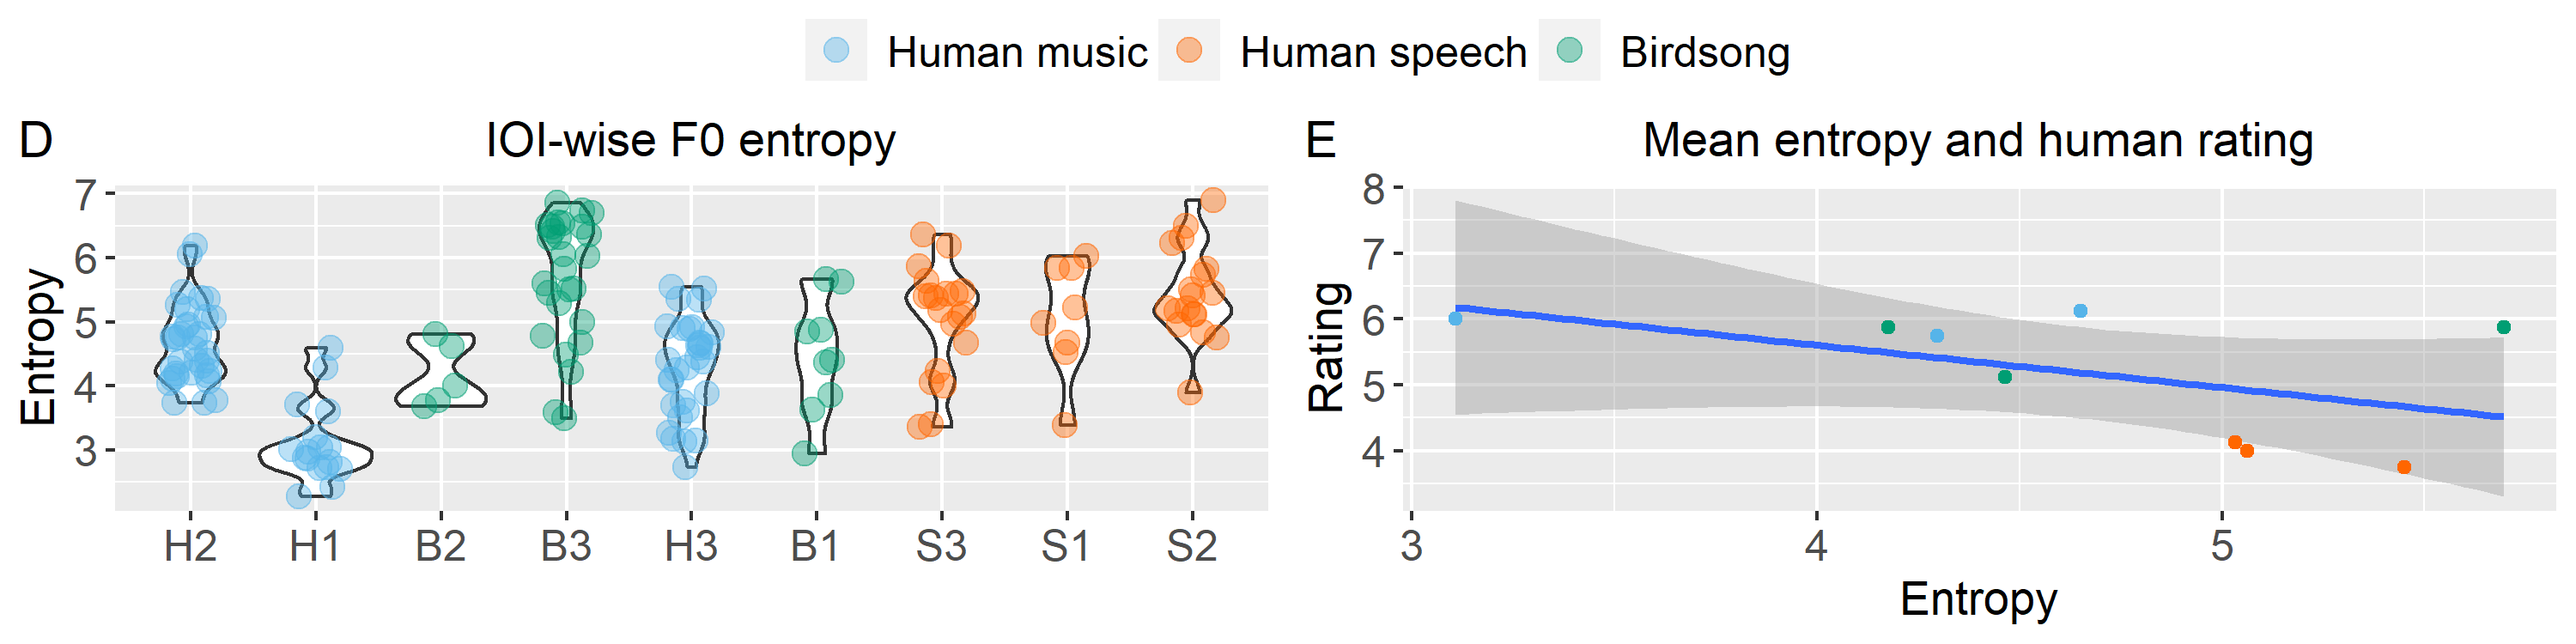
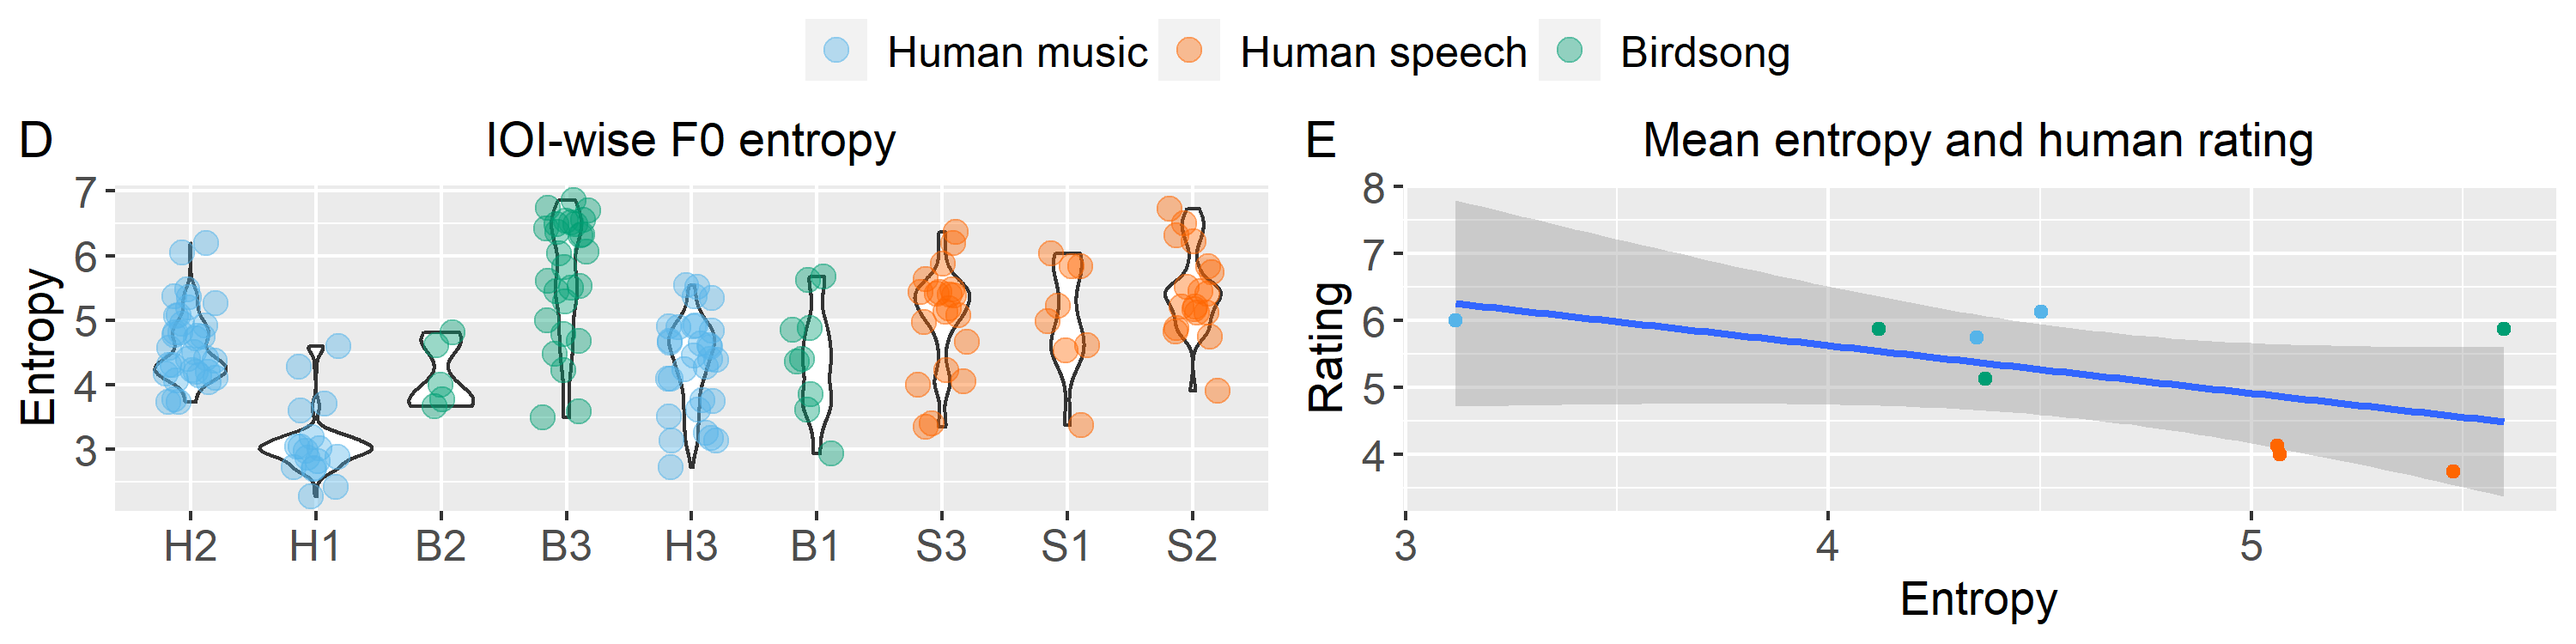
Add existing file

diff --git a/analysis_pitchdiscreteness.m b/analysis_pitchdiscreteness.m
@@ -37,16 +37,17 @@ function analysis_pitchdiscreteness
         
         %%
         onsetinfo = readtable(strcat('./data/seg_', dataname{i}, '.csv'));
-        t_onset = onsetinfo.onset_t;
-        t_onset(end + 1) = t_f0(end);
-        
+        breakinfo = readtable(strcat('./data/break_', dataname{i}, '.csv'));
+        [~, t_st, t_ed] = h_ioi(onsetinfo.onset_t, breakinfo.break_t);
+
         %%
         H = [];
+        L = [];
         f0_cent = f0_cent(:)';
 
-        for j=2:numel(t_onset)
-            [~, idx_st] = min(abs(t_f0 - t_onset(j - 1)));
-            [~, idx_ed] = min(abs(t_f0 - t_onset(j)));
+        for j=1:numel(t_st)
+            [~, idx_st] = min(abs(t_f0 - t_st(j)));
+            [~, idx_ed] = min(abs(t_f0 - t_ed(j)));
 
             f0_cent_j = f0_cent(idx_st:idx_ed);
 
@@ -60,6 +61,7 @@ function analysis_pitchdiscreteness
                 
                 if (idx_ed_j - idx_st_j + 1) > K
                     H(end + 1) = klentropy(f0_cent_j(idx_st_j:idx_ed_j), K);
+                    L(end + 1) = t_f0(idx_ed_j) - t_f0(idx_st_j);
                 end
 
                 idx_st_j = find(~isinf(f0_cent_j(idx_ed_j + 1:end)), 1, 'first') + idx_ed_j;
@@ -79,7 +81,7 @@ function analysis_pitchdiscreteness
         hold on;
         xlim([-1, 10]);
 
-        writetable(array2table(H(:), 'VariableNames', {'Entropy'}), strcat(outputdir, dataname{i}, '_H.csv'),...
+        writetable(array2table([H(:), L(:)], 'VariableNames', {'Entropy', 'Duration'}), strcat(outputdir, dataname{i}, '_H.csv'),...
             'WriteRowNames', false, 'WriteVariableNames', true);
 
         %%
